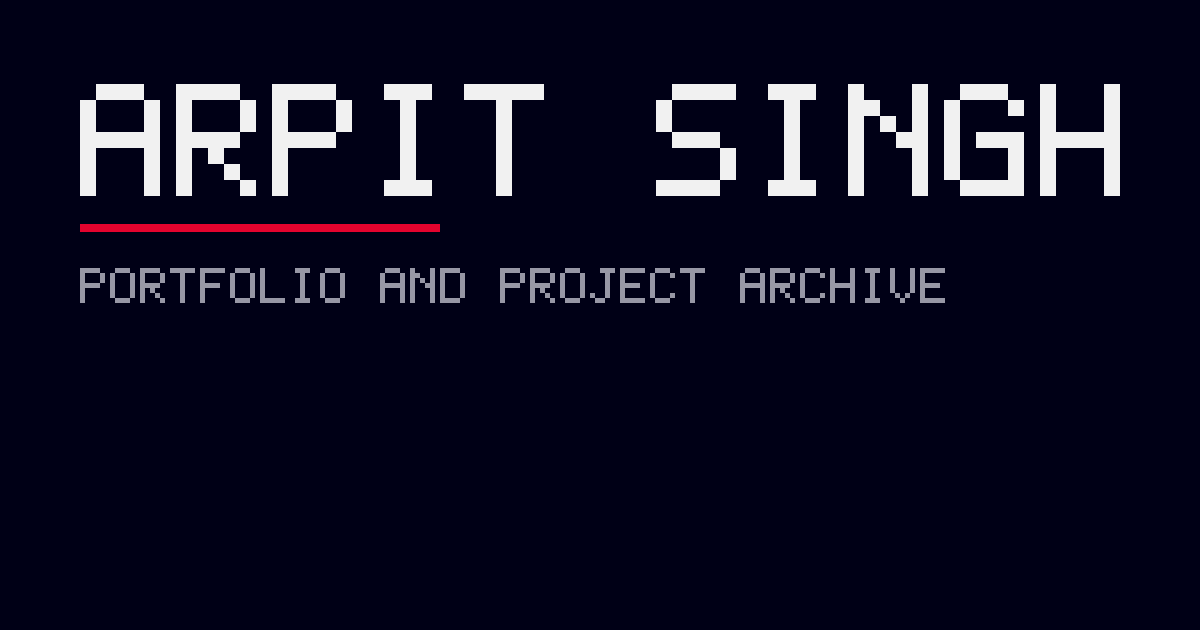
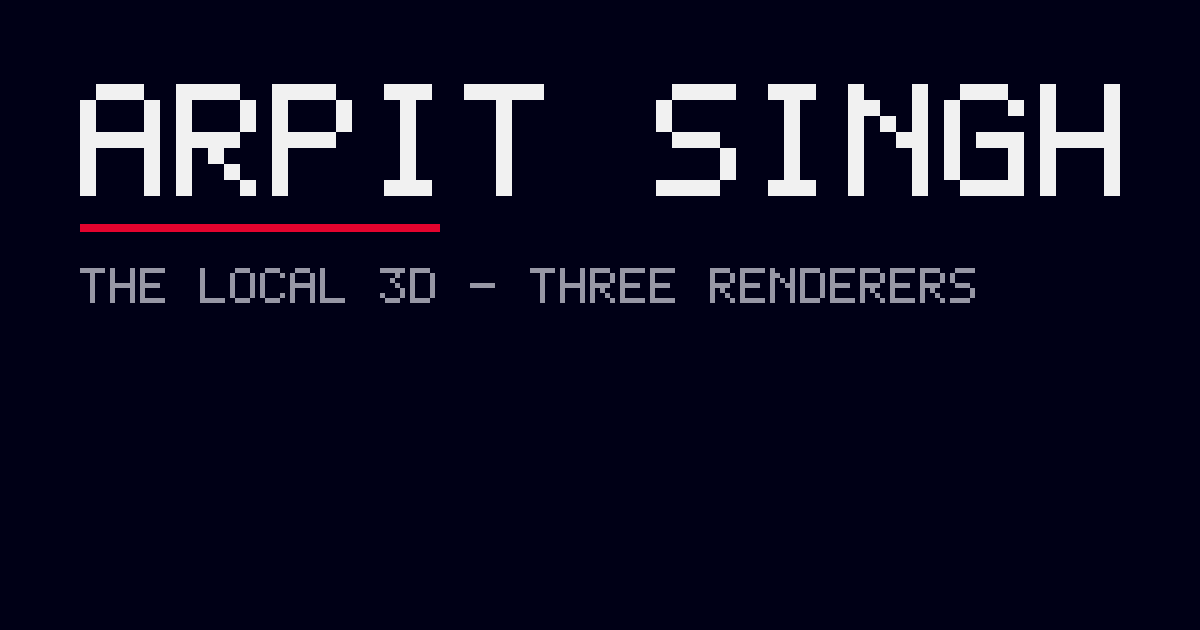
Give the social card the new site's name
The card still carried the previous site's strapline. It now says The Local 3D, and the subtitle fits inside the card.

Changed region(s): [[0.2158, 0.4222, 0.5242, 0.4825], [0.555, 0.4222, 0.8325, 0.4825], [0.0617, 0.4222, 0.185, 0.4825]]

diff --git a/scripts/build-og.ts b/scripts/build-og.ts
@@ -34,7 +34,7 @@ const ACCENT: Rgb = [0xe4, 0x03, 0x2e];
 const MUTED: Rgb = [0x97, 0x97, 0xa5];
 
 const TITLE_TEXT = 'ARPIT SINGH';
-const SUBTITLE_TEXT = 'PORTFOLIO AND PROJECT ARCHIVE';
+const SUBTITLE_TEXT = 'THE LOCAL 3D - THREE RENDERERS';
 
 const MARGIN_X = 80;
 const TITLE_TOP = 84;
@@ -310,7 +310,7 @@ function buildSvg(): string {
   return [
     '<?xml version="1.0" encoding="UTF-8"?>',
     `<svg xmlns="http://www.w3.org/2000/svg" width="${CARD_WIDTH}" height="${CARD_HEIGHT}" viewBox="0 0 ${CARD_WIDTH} ${CARD_HEIGHT}" role="img" aria-labelledby="og-title og-desc">`,
-    '  <title id="og-title">Arpit Singh - portfolio and project archive</title>',
+    '  <title id="og-title">Arpit Singh - The Local 3D</title>',
     '  <desc id="og-desc">The social card for arpit singh, a portfolio and project archive.</desc>',
     `  <rect width="${CARD_WIDTH}" height="${CARD_HEIGHT}" fill="#000016"/>`,
     `  <text x="${MARGIN_X}" y="${titleBaseline}" font-family="Georgia, serif" font-size="${titleSize}" letter-spacing="${TITLE_SCALE}" fill="#f1f1f1">${TITLE_TEXT}</text>`,
